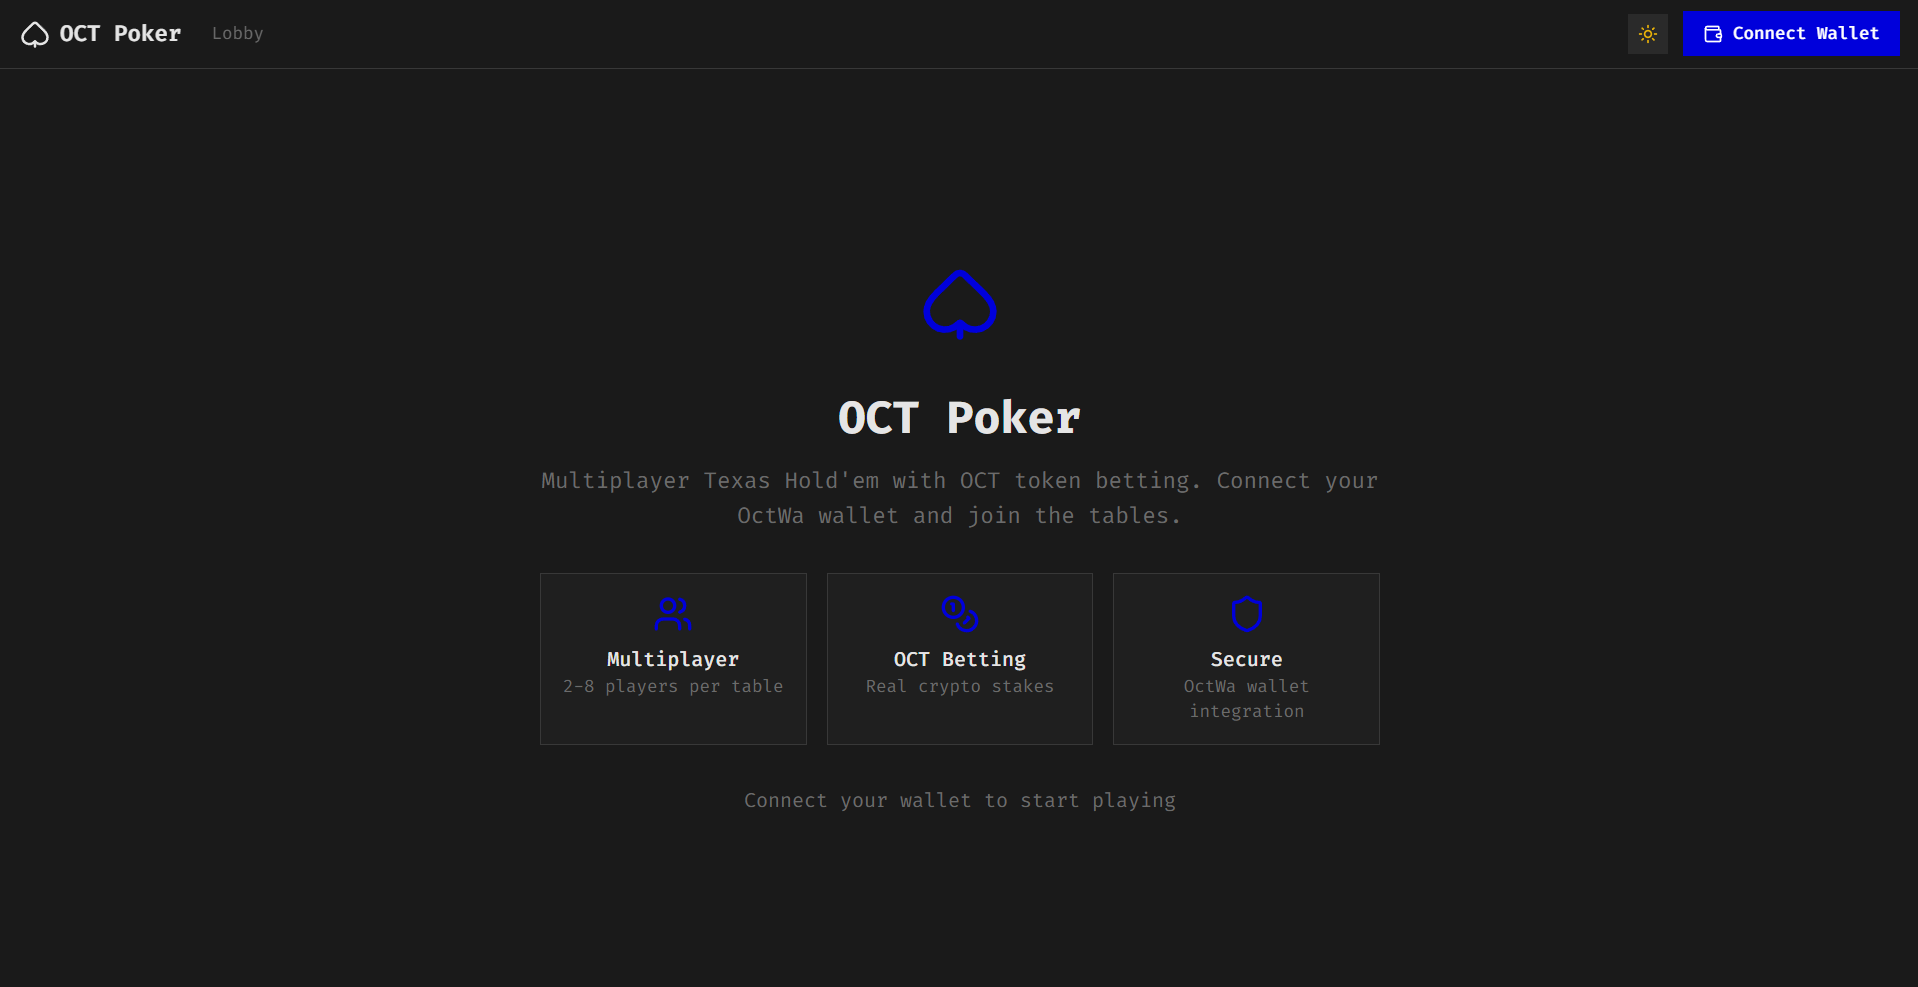
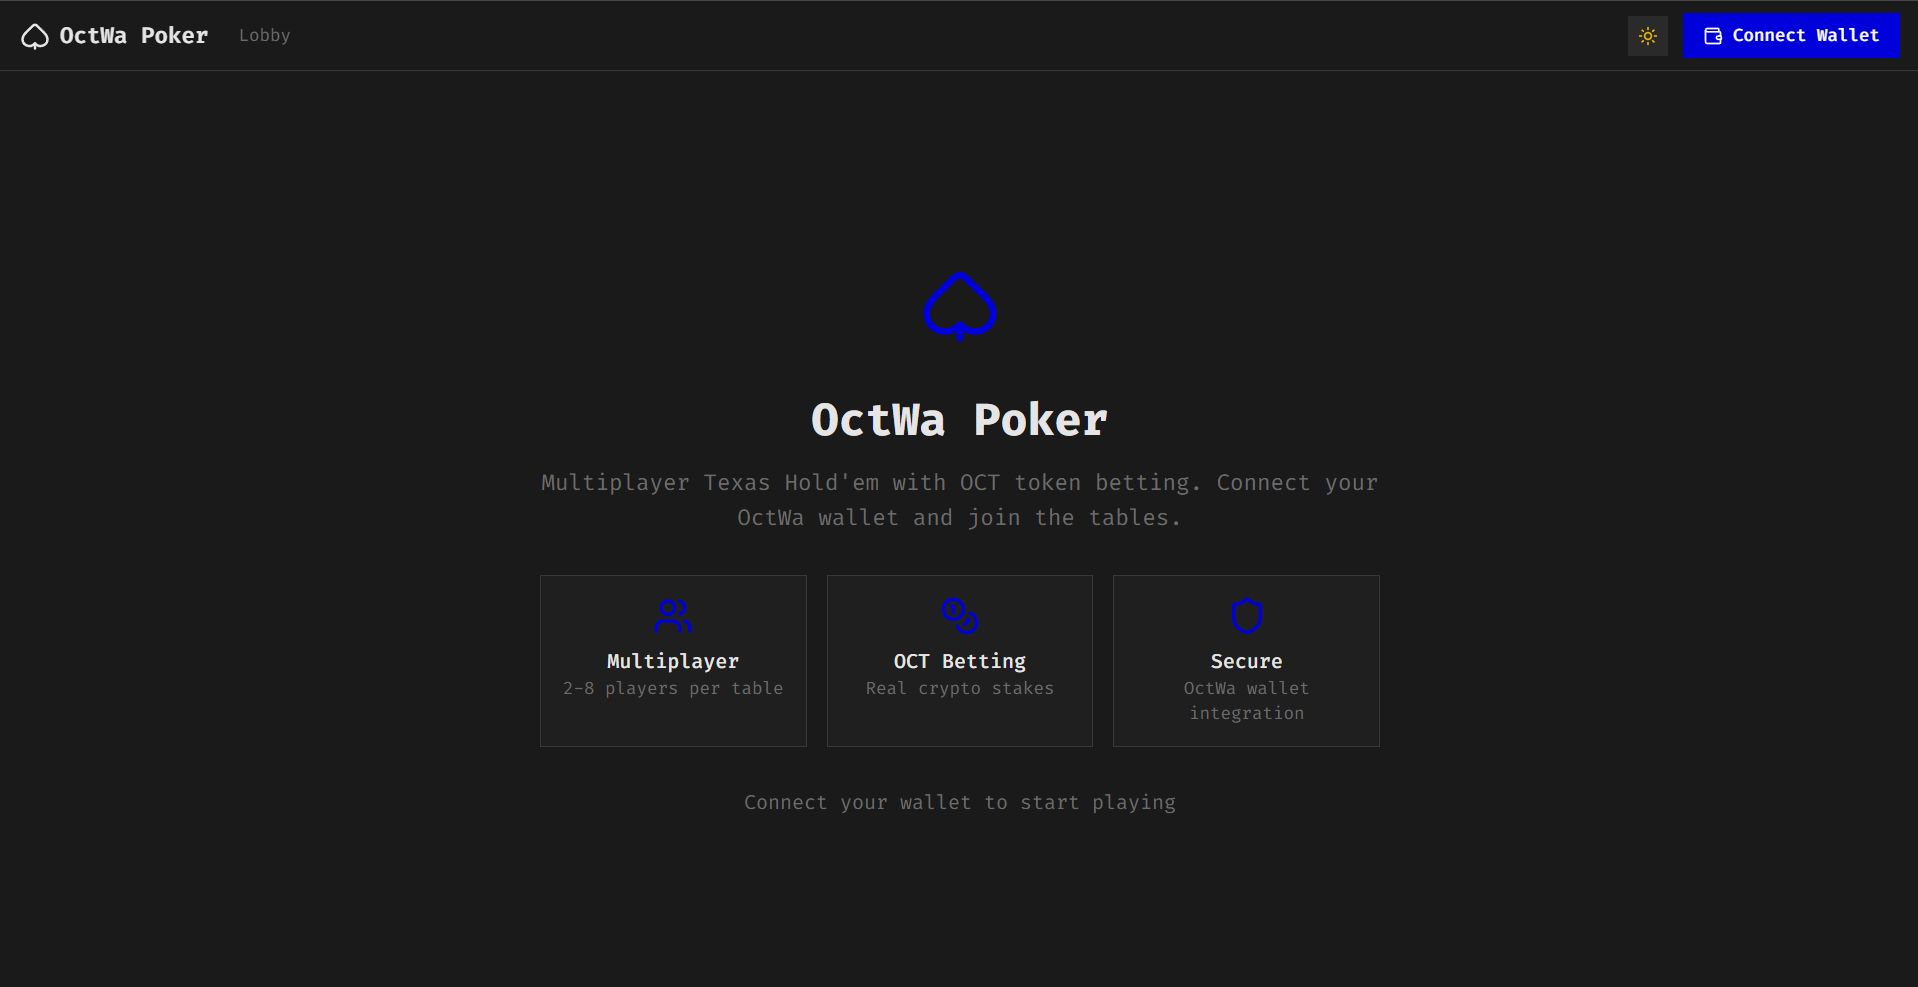
improvement

diff --git a/src/App.tsx b/src/App.tsx
@@ -26,7 +26,7 @@ const apps = [
     screenshotUrl: 'octwa-otc.png',
   },
   {
-    name: 'Octra Poker',
+    name: 'OctWa Poker',
     description: "Multiplayer Texas Hold'em Poker with OCT token betting, powered by the Octra Network.",
     appUrl: 'https://octra-poker.vercel.app/',
     repoUrl: '',
